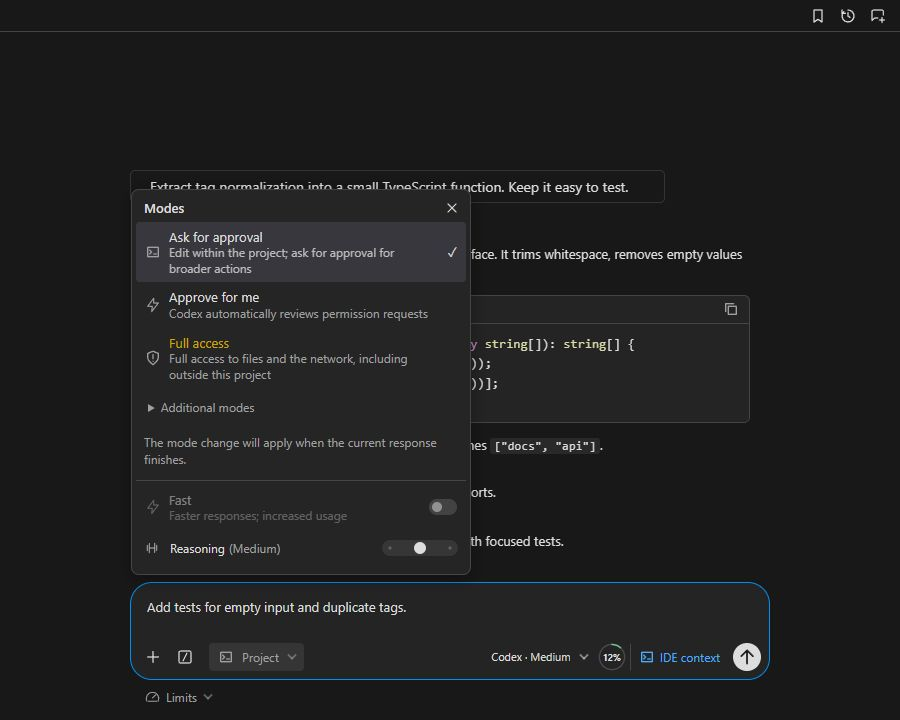
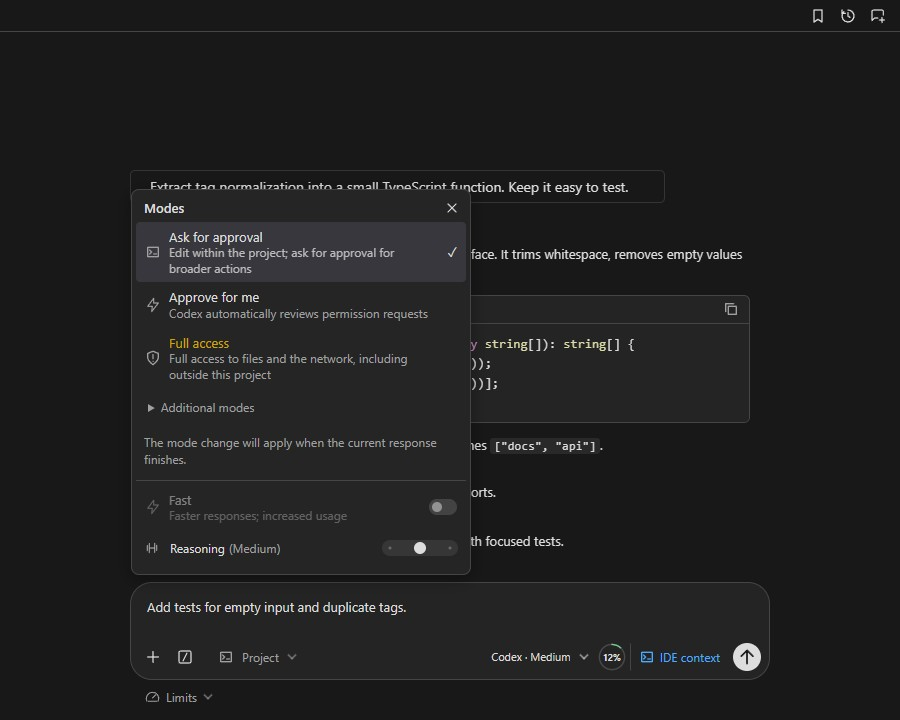
Polish Marketplace presentation with demo tour and version notes

diff --git a/standalone/docs/screenshots/tour.py b/standalone/docs/screenshots/tour.py
@@ -1,0 +1,11 @@
+"""Encode a feature tour from the three isolated demo captures (requires Pillow)."""
+from pathlib import Path
+from PIL import Image
+
+root = Path(__file__).resolve().parent
+frames = []
+for name in ('chat-dark.jpg', 'access-modes.jpg', 'questions-light.jpg'):
+    with Image.open(root / name) as source:
+        frames.append(source.convert('RGB').quantize(colors=192))
+frames[0].save(root / 'demo.gif', save_all=True, append_images=frames[1:],
+               duration=[3500, 3000, 3500], loop=0, optimize=True, disposal=2)

diff --git a/README.md b/README.md
@@ -1,12 +1,14 @@
-# Rundix — Codex CLI for VS Code
-
-<img src="standalone/resources/extension-icon.png" alt="Rundix — curly braces enclosing R" width="96" height="96">
+<div align="center">
+  <img src="standalone/resources/extension-icon.png" alt="Rundix — curly braces enclosing R" width="96" height="96">
+  <h1>Rundix — Codex CLI for VS Code</h1>
+  <p><strong>Your coding agent, in your editor.</strong><br>Native chat tabs · Images and project context · Follow-up queue · English / Русский</p>
+  <a href="https://marketplace.visualstudio.com/items?itemName=local-rundix-tools.rundix"><img src="standalone/docs/branding/marketplace-badge.png" alt="Install Rundix from Microsoft Marketplace" width="300" height="60"></a>
+  <p><a href="#screenshots">Demo &amp; screenshots</a> · <a href="standalone/CHANGELOG.md">What's new</a> · <a href="#русский">Русский</a> · <a href="https://github.com/uladzemer/Rundix/issues">Feedback</a></p>
+</div>
 
 **An AI coding assistant powered by the official Codex CLI, inside Visual Studio Code.**
 
 Keep conversations in native editor tabs, add images and project files, and queue follow-ups while your coding agent works. Choose models, reasoning effort and access modes from the chat.
-
-**[Install from Marketplace](https://marketplace.visualstudio.com/items?itemName=local-rundix-tools.rundix)** · [See screenshots](#screenshots) · [Русский](#русский) · [Report an issue](https://github.com/uladzemer/Rundix/issues)
 
 Rundix uses your existing Codex CLI sign-in by default. The CLI manages credentials; Rundix does not read or copy authentication files. Compatible companion extensions can provide an explicitly selected alternative through the [connection API](standalone/docs/connection-api.md).
 
@@ -33,7 +35,14 @@ Already signed in to Codex CLI? Start chatting. Otherwise, open `/account` → *
 
 ## Screenshots
 
-The Rundix chat UI with synthetic demo content. Native VS Code tabs are outside these screenshots.
+### A quick tour
+
+![Rundix feature tour: code chat, access modes and Russian questions in the light theme](standalone/docs/screenshots/demo.gif)
+
+Real Rundix UI with synthetic demo content; no model request or personal conversation. The tour cycles through three scenes. Native VS Code tabs are outside the captures.
+
+<details>
+<summary>View still screenshots</summary>
 
 Chat, highlighted code and the message composer:
 
@@ -43,13 +52,24 @@ Access modes and reasoning effort:
 
 ![Rundix access-mode menu and reasoning controls](standalone/docs/screenshots/access-modes.jpg)
 
+Questions in Russian, in the light theme:
+
+![Rundix question panel with Russian options in the light theme](standalone/docs/screenshots/questions-light.jpg)
+
+</details>
+
+## What's new
+
+The latest interface and installation guidance are documented in the [changelog](standalone/CHANGELOG.md). Install and update Rundix through **Microsoft Marketplace**; GitHub hosts the source and documentation.
+
 ## Support the project
 
 If Rundix is useful to you, **[give it a star on GitHub](https://github.com/uladzemer/Rundix)** using the **Star** button at the top of this page. It helps other developers discover the project and lets you find it again later.
 
 Found a bug or have a feature idea? [Open an issue](https://github.com/uladzemer/Rundix/issues) with the expected behavior and steps to reproduce. Please leave out credentials, private conversations and personal paths.
 
-## Develop
+<details>
+<summary>Development and local checks</summary>
 
 The extension source is in [`standalone/`](standalone/README.md).
 
@@ -64,6 +84,8 @@ The package is written to `standalone/rundix-<version>.vsix`. Browser checks nee
 
 The extension ID is `local-rundix-tools.rundix`. Its commands, settings and storage are separate from other editions.
 
+</details>
+
 ## Русский
 
 Rundix — AI-помощник для программирования на базе официального Codex CLI в Visual Studio Code. Чаты открываются во вкладках редактора; доступны Markdown и подсветка кода, изображения, файлы и контекст проекта, очередь уточнений, история, группы, закладки и ветки разговоров.
@@ -77,3 +99,5 @@ Rundix — AI-помощник для программирования на ба
 Подробности: [`standalone/README.md`](standalone/README.md). Лицензия кода и собственных значков — [MIT](LICENSE); лицензии включённых библиотек собраны в `standalone/THIRD_PARTY_NOTICES.txt`.
 
 Если Rundix вам полезен, поставьте **Star** вверху страницы репозитория. Об ошибках и идеях можно рассказать в [Issues](https://github.com/uladzemer/Rundix/issues), без ключей и личных переписок.
+
+Изменения версий — в [истории изменений](standalone/CHANGELOG.md). Установка и обновления доступны через **Microsoft Marketplace**; в GitHub хранятся исходники и документация.

diff --git a/standalone/docs/screenshots/README.md b/standalone/docs/screenshots/README.md
@@ -1,6 +1,6 @@
 # Screenshot sources
 
-`chat-dark.jpg` and `access-modes.jpg` show the real UI assets from Rundix 0.1.1, rendered in Chrome. Their text and account state are explicitly synthetic; no real account, credential, private path, conversation or model call was used. The model label "Codex" is a generic demo label, not a claim about an available model ID.
+`chat-dark.jpg`, `access-modes.jpg` and `questions-light.jpg` show the real Rundix UI assets, rendered in Chrome. `demo.gif` cycles through these three scenes over ten seconds. Their text and account state are explicitly synthetic; no real account, credential, private path, conversation or model call was used. The model label "Codex" is a generic demo label, not a claim about an available model ID.
 
 The images capture the 900 × 720 demo panel. Only the panel area is included, with no browser chrome or native VS Code editor-tab frame. UI controls and messages are rendered by the production webview scripts and styles, not drawn over the screenshots. The preview sets VS Code theme tokens and panel dimensions; it does not modify the production styles.
 
@@ -13,3 +13,15 @@ node standalone/docs/screenshots/preview.cjs
 Open the printed loopback URL. It serves only the fixed demo page and the extension's `ui/` JavaScript/CSS assets. No CLI or user storage is connected, and sending messages cannot execute a task. For the menu image, open **Permissions**. A light-theme Russian question example is available at `/?theme=light&scene=questions`.
 
 Capture the demo panel after layout has settled, inspect every image for clipping and personal information, then close the browser preview and stop the server. This folder is documentation and is excluded from the VSIX; updating screenshots does not require rebuilding or replacing the published extension.
+
+To regenerate all three still images and the GIF, install the extension's development dependencies and Python's Pillow package, then run from the repository root:
+
+```powershell
+node standalone/docs/screenshots/capture.cjs
+```
+
+Set `CHROME_PATH` if Chrome/Chromium is outside the listed locations. Set `PYTHON` if the Python executable has a different name or path. The capture script starts and stops its own loopback server and headless browser, opens the access menu through the normal webview event, and captures the light-theme Russian question scene. `tour.py` encodes those still captures as an animated GIF. Inspect all three scenes before committing. The GIF is a feature tour, not a recording of live model execution.
+
+The script also renders `../branding/marketplace-badge.svg` to PNG for GitHub and Marketplace. This is a project-created installation link graphic with a generic storefront symbol and plain text, under the project MIT license; it is not an official Microsoft logo or certification. The PNG avoids dependence on an external badge service and works with Marketplace's image formats.
+
+The Marketplace README uses public HTTPS image URLs pointing to this folder. Updating that packaged README or its bundled changelog requires a new extension package, even though the image files themselves stay outside the VSIX.

diff --git a/standalone/CHANGELOG.md b/standalone/CHANGELOG.md
@@ -1,0 +1,25 @@
+# Changelog / История изменений
+
+Install and update Rundix through [Microsoft Marketplace](https://marketplace.visualstudio.com/items?itemName=local-rundix-tools.rundix).
+
+## 0.2.2 — 2026-10-18
+
+- Added a Microsoft Marketplace installation badge, a short animated feature tour and dark/light screenshots to the description.
+- Added version notes and feedback links. Microsoft Marketplace is the only distribution channel promoted in the documentation.
+- Documentation and package presentation only; chat, history and connection behavior are unchanged.
+
+Добавлены значок установки из Microsoft Marketplace, GIF-обзор и скриншоты тёмной/светлой темы, история изменений и ссылки для обратной связи. Работа чатов, истории и подключений не менялась.
+
+## 0.2.1 — 2026-10-18
+
+- Reworked the English and Russian descriptions around features, setup and settings.
+- Added search keywords and a Marketplace category.
+- Included the connection API v1 groundwork from 0.2.0: explicit companion selection, fail-closed sending when a selected provider is missing, and conflict-preserving import of legacy conversation metadata.
+
+Обновлены описание на двух языках, поисковые теги и категория. Включён API подключения v1 из основы 0.2.0: явный выбор модуля, сохранение черновика при его недоступности и перенос метаданных прежних чатов без перезаписи конфликтов.
+
+## 0.1.1 — 2026-10-18
+
+- Initial Marketplace version of the independent Codex CLI interface: native chat tabs, images, queued follow-ups and local CLI sign-in.
+
+Первый выпуск в Marketplace: независимый интерфейс Codex CLI с вкладками чатов, изображениями, очередью уточнений и текущим локальным входом CLI.
